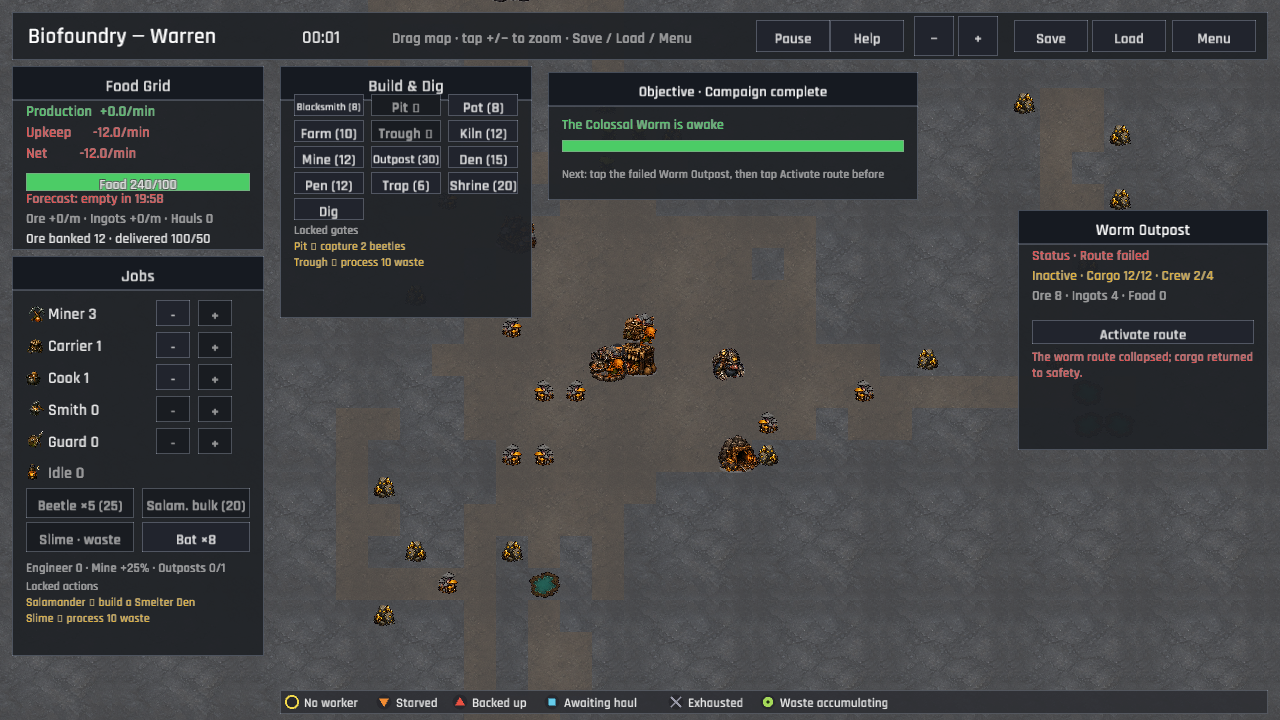
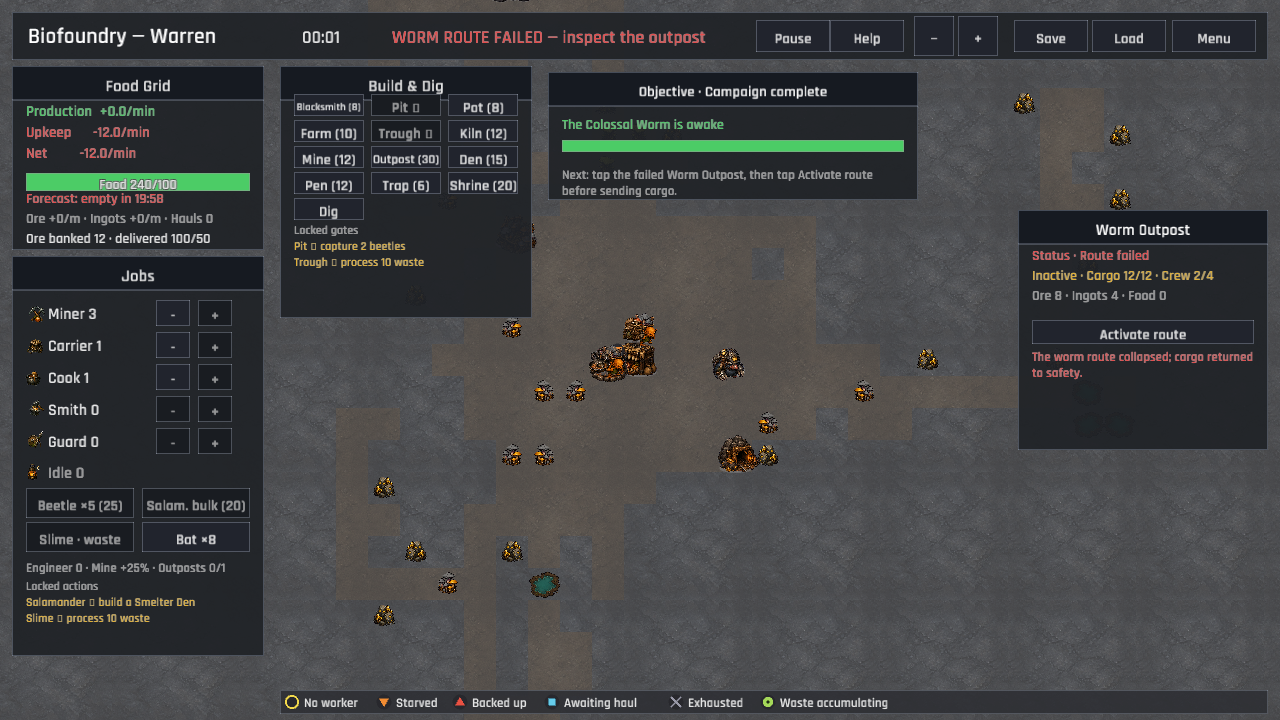
The route warning stays inside the ledger (P5 recovery clarity)
Give the Objective recovery message enough height to show its complete visible action, and align the canonical failed-route capture with the top-bar transit failure signal.

Changed region(s): [[0.4375, 0.2139, 0.6875, 0.275], [0.3125, 0.0306, 0.5625, 0.0611]]

diff --git a/src/game/capture_scenes.rs b/src/game/capture_scenes.rs
@@ -386,6 +386,8 @@ pub(super) fn begin(game: &mut Game, scene: &str) {
                     route.last_failure =
                         Some("The worm route collapsed; cargo returned to safety.".to_owned());
                 }
+                session.last_transit_failure =
+                    Some("Transit failed because the outpost was inactive.".to_owned());
             }
         }
         "shrine" => {

diff --git a/src/ui/hud/panels.rs b/src/ui/hud/panels.rs
@@ -664,7 +664,7 @@ pub(super) fn draw_objective_panel(session: &GameSession, data: &GameData) -> Re
         OBJECTIVE_PANEL.x + 14.0,
         OBJECTIVE_PANEL.y + 94.0,
         OBJECTIVE_PANEL.w - 28.0,
-        26.0,
+        34.0,
         13.0,
         3.0,
         dark::TEXT_DIM,
